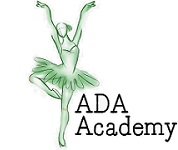
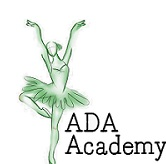
index.html: Corrijo errores para hacer la página responsive.

Changed region(s): [[0.0904, 0.0, 1.0, 1.0]]

diff --git a/index.html b/index.html
@@ -6,8 +6,8 @@
 	<title>Home</title>
 	<link href="https://fonts.googleapis.com/css?family=Cabin" rel="stylesheet">
 	<link rel="stylesheet" type="text/css" href="bootstrap-3.3.7-dist/css/bootstrap.min.css">
-	<link rel="stylesheet" type="text/css" href="css/headerFooter.css">
 	<link rel="stylesheet" type="text/css" href="css/home.css">
+	<link rel="stylesheet" type="text/css" href="css/headerFooter.css">
 	
 
 	<script src="https://ajax.googleapis.com/ajax/libs/jquery/3.2.1/jquery.min.js"></script>
@@ -18,22 +18,39 @@
 		<header class="row">
 		    <nav class="col-lg-12 col-md-12 col-sm-12 col-xs-12 navbar">
 				<div class="navbar-header">
-					<img class="pull-left img-responsive" src="imgs/150x150-navBrandAda.jpg" alt="">
+					<img class="pull-left img-responsive hidden-lg hidden-md" src="imgs/130x130-navBrandAda.jpg" alt="">
+					<img class="pull-left img-responsive hidden-sm hidden-xs" src="imgs/170x150-navBrandAda.jpg" alt="">
 			        <button type="button" class="navbar-toggle btn btn-lg pull-right" data-toggle="collapse" data-target="#myFirstNavbar" >
         			<span class="glyphicon glyphicon-menu-hamburger" aria-hidden="true"></span>
 					</button>        
 				</div>        
-		        <div class="collapse navbar-collapse pull-right" id="myFirstNavbar">
-				    <ul class="nav navbar-nav hidden-xs">
-				        <li><a href="#">Home</a></li>
-				        <li><a href="html/about.html">Nosotros</a></li>
+		        <div class="collapse navbar-collapse" id="myFirstNavbar">
+				    <ul class="nav navbar-nav pull-right hidden-xs ulLg">
+				        <li class="active"><a href="#">Home</a></li>
+				        <li class="dropdown">
+							<a class="dropdown-toggle" data-toggle="dropdown" href="html/about.html">Nosotros<span class="caret"></span></a>
+							<ul class="dropdown-menu" id="ulXs">
+								<li class="well-sm"><a href="#">Nuestra Historia</a></li>
+								<li class="well-sm"><a href="#">Nuestras Instalaciones</a></li>
+								<li class="well-sm"><a href="#">Nuestros Servicios</a></li>
+								<li class="well-sm"><a href="#">Nuestros Docentes</a></li>
+							</ul>
+						</li>
 				        <li><a href="html/class.html">Talleres</a></li>
 				        <li><a href="html/gallery.html">Galeria</a></li>
 				        <li><a href="html/contact.html">Contacto</a></li>
 				    </ul>
-				    <ul class="nav navbar-nav hidden-lg hidden-md  hidden-sm myTextStyleMd"> 
-				        <li><a href="#">Home</a></li>
-				        <li><a href="html/about.html">Nosotros</a></li>
+				    <ul class="nav navbar-nav hidden-lg hidden-md hidden-sm" id="ulXs"> 
+				        <li class="active"><a href="#">Home</a></li>
+				        <li class="dropdown">
+							<a class="dropdown-toggle" data-toggle="dropdown" href="html/about.html">Nosotros<span class="caret"></span></a>
+							<ul class="dropdown-menu">
+								<li><a href="#">Nuestra Historia</a></li>
+								<li><a href="#">Nuestras Instalaciones</a></li>
+								<li><a href="#">Nuestros Servicios</a></li>
+								<li><a href="#">Nuestros Docentes</a></li>
+							</ul>
+						</li>
 				        <li><a href="html/class.html">Talleres</a></li>
 				        <li><a href="html/gallery.html">Galeria</a></li>
 				        <li><a href="html/contact.html">Contacto</a></li>
@@ -68,16 +85,16 @@
 		                        <div class="item">
 						        	<img src="imgs/1200x500-homeStudio02.jpg" alt="Studio 02">
 						        	<div class="carousel-caption textSlider">
-							            <h3>Salón Amarrillo<h3>
-						                <h4>Piso sólido de madera</h4>
+							            <h4>Salón Amarrillo<h4>
+						                <h5>Piso sólido de madera</h5>
 							        </div>
 						       	</div>
 		
 						      	<div class="item">
 						        	<img src="imgs/1200x500-homeStudio03.jpg" alt="Studio 03"">
 						        	<div class="carousel-caption textSlider">
-							            <h3>Salón Azul<h3>
-						                <h4>Piso sólido de porcelanato</h4>
+							            <h4>Salón Azul<h4>
+						                <h5>Piso sólido de porcelanato</h5>
 							        </div>
 						      	</div>
 						    </div>
@@ -103,7 +120,7 @@
 	        		<article class="col-lg-3 col-md-3 col-sm-6 col-xs-6">
 	                	<div class="well-lg">
 		                	<img class="img-responsive img-rounded" src="imgs/300x200-homeContemporaryDance.jpg" alt="Contemporary Dance">
-		        	        <div class="caption">
+		        	        <div class="caption text-justify">
 		        				<h5 class="text-center">Talleres</h5>
 		        				<p class="hidden-sm hidden-xs">Lorem ipsum dolor sit amet, consectetur adipisicing elit...</p>
 		        				<a class="btn btn-block btn-sm" role="button" href="html/about.html"> Ver más...</a>
@@ -114,7 +131,7 @@
 	        		<article class="col-lg-3 col-md-3 col-sm-6 col-xs-6">
 	                	<div class="well-lg">
 		                	<img class="img-responsive img-rounded" src="imgs/300x200-homeClass.jpg" alt="Class">
-		        	        <div class="caption">
+		        	        <div class="caption text-justify">
 		        				<h5 class="text-center">Clases</h5>
 		        				<p class="hidden-sm hidden-xs">Lorem ipsum dolor sit amet, consectetur adipisicing elit...</p>
 		        				<a class="btn btn-block btn-sm" role="button" href="html/about.html"> Ver más...</a>
@@ -125,7 +142,7 @@
 	        		<article class="col-lg-3 col-md-3 col-sm-6 col-xs-6">
 	                	<div class="well-lg">
 		                	<img class="img-responsive img-rounded" src="imgs/300x200-homeStudioRental.jpg" alt="Studio Rental">	    
-		                	<div class="caption">
+		                	<div class="caption text-justify">
 		        				<h5 class="text-center">Alquiler</h5>
 		        				<p class="hidden-sm hidden-xs">Lorem ipsum dolor sit amet, consectetur adipisicing elit...</p>
 		        				<a class="btn btn-block btn-sm" role="button" href="html/about.html"> Ver más...</a>
@@ -136,7 +153,7 @@
 	        		<article class="col-lg-3 col-md-3 col-sm-6 col-xs-6">
 	                	<div class="well-lg">
 		                	<img class="img-responsive img-rounded" src="imgs/300x200-homeEquipment.jpg" alt="Home Equipment">	    
-		                	<div class="caption">
+		                	<div class="caption text-justify">
 		        				<h5 class="text-center">Equipamiento</h5>
 		        				<p class="hidden-sm hidden-xs">Lorem ipsum dolor sit amet, consectetur adipisicing elit...</p>
 		        				<a class="btn btn-block btn-sm" role="button" href="html/about.html"> Ver más...</a>

diff --git a/css/headerFooter.css b/css/headerFooter.css
@@ -1,41 +1,43 @@
 /*{
 	border: 1px solid black;
 }*/
-body{
-	background:#FFFFFF;
-}
-
-/*******************HEADER***************************/
 *{
 	font-family: 'Cabin', sans-serif;
     color: #000000;	
 }
 
-/*#borderBottom{	
-	border-bottom: 20px groove #D0E5C6;
-}*/
+body{
+	background:#FFFFFF;
+}
 
+
+/*******************HEADER***************************/
 header{
     border-bottom: 0.1em solid #000000;
 }
 
 header a{
-	font-size: 1.5em;
-	margin-top: 5em;
 	color: #000000;
-	padding:0em;
 }
 
-header .myTextStyleMd a{
-	font-size: 2em;
-	margin-top: 0em;
-	text-align: center;
-	border-bottom: 0.1em solid #D0E5C6;
+header .active a{
+	color: #D0E5C6 !important;
 }
 
 header .nav>li>a:hover{
-	color: #D0E5C6;
-	background-color: #FFFFFF;
+	background-color: #D0E5C6;
+	color: #FFFFFF;
+}
+
+header nav>div>ul.ulLg>li>a{
+	font-size: 1.8em;
+	margin-top: 4.4em;
+	border-bottom: 0em;
+	padding-bottom: 0.5em;
+}
+
+header #ulXs li{
+	border-bottom: 0.1em solid #D0E5C6;
 }
 
 
@@ -48,24 +50,18 @@ footer{
 footer li, footer .net a{
     list-style: none;
     color: #000000;	
-    font-size: 1.1em;
-    line-height: 1.3em;
+   /* font-size: 1.1em;*/
+    /*line-height: 1.3em;*/
 }
 
 footer .map{
 	border-left: 0.1em solid #D0E5C6;
-	font-size: 1.1em;
-    line-height: 0.6em;
+	/*font-size: 1.1em;*/
+    line-height: 1em;
 }
-/*{
-    list-style: none;
-    color: #390050;	
-    font-size: 1.5em;
-}*/
 
 footer .copyRight{
-	/*padding: 2em 0em;*/
-	font-size: 1.1em;
+	/*font-size: 1.1em;*/
 }
 
 
